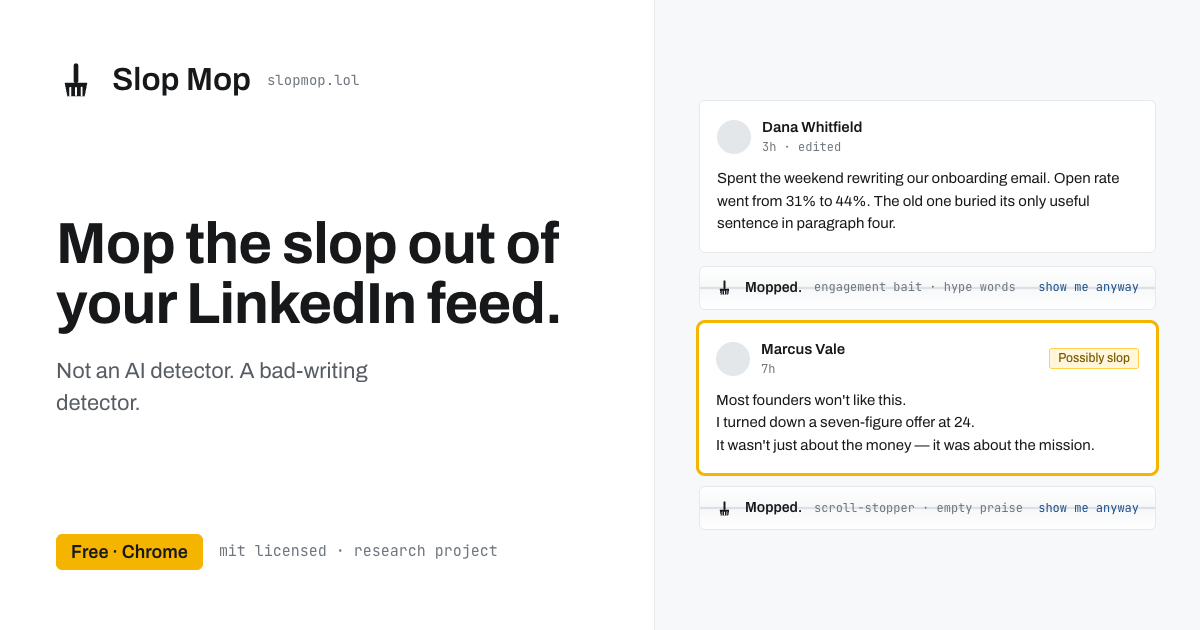
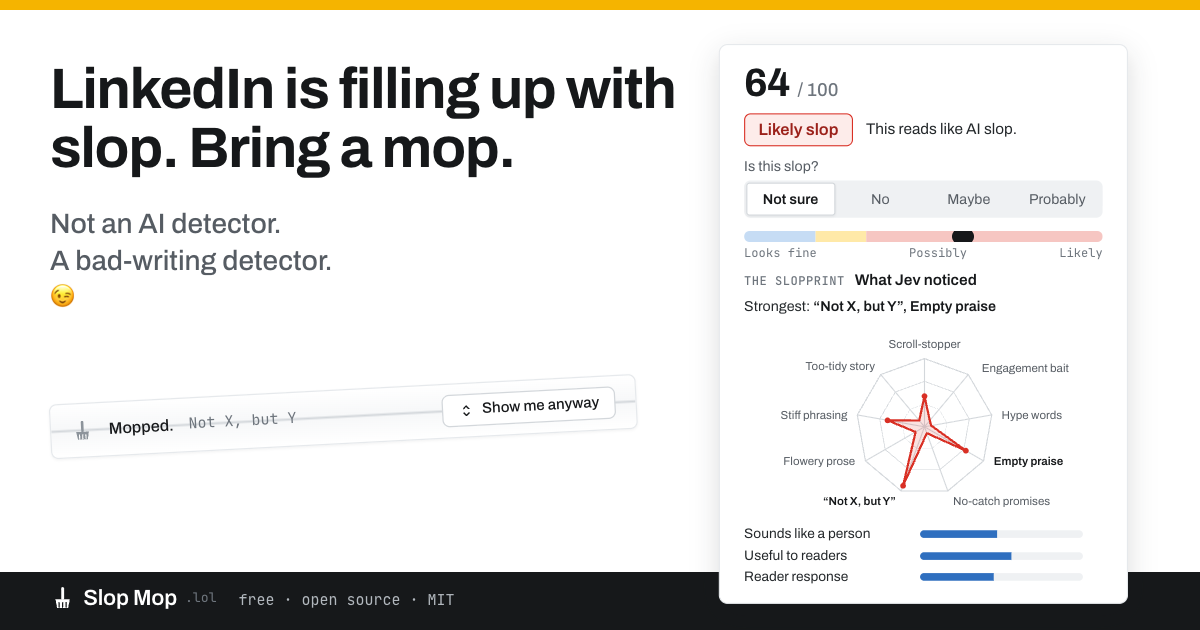
updated og image

diff --git a/index.html b/index.html
@@ -12,15 +12,18 @@
 <meta name="description" content="Slop Mop is a free, open-source Chrome extension that helps reduce AI slop and low-value writing in LinkedIn feeds. It reads posts ahead, explains what it noticed, and lets you hide, highlight, reveal or override. Not an AI detector.">
 <link rel="canonical" href="https://slopmop.lol/">
 <meta name="robots" content="index, follow, max-image-preview:large">
+
+
 <meta property="og:type" content="website">
-<meta property="og:site_name" content="Slop Mop">
 <meta property="og:url" content="https://slopmop.lol/">
-<meta property="og:title" content="Slop Mop — Less slop. More control. Your call.">
-<meta property="og:description" content="A free, MIT-licensed Chrome extension that judges LinkedIn writing — not who wrote it — and lets you hide it, highlight it, or overrule it.">
-<meta property="og:image" content="https://slopmop.lol/og-image-2.png">
+<meta property="og:site_name" content="Slop Mop">
+<meta property="og:title" content="LinkedIn is filling up with slop. Bring a mop.">
+<meta property="og:description" content="Not an AI detector. A bad-writing detector. A free, open-source extension that reads posts before you reach them and hides the ones that waste your attention.">
+<meta property="og:image" content="https://slopmop.lol/og-image.png">
+<meta property="og:image:type" content="image/png">
 <meta property="og:image:width" content="1200">
 <meta property="og:image:height" content="630">
-<meta property="og:image:alt" content="Slop Mop: fold the slop out of your LinkedIn feed.">
+<meta property="og:image:alt" content="Slop Mop — LinkedIn is filling up with slop. Bring a mop.">
 <meta name="twitter:card" content="summary_large_image">
 <meta name="twitter:title" content="Slop Mop — Less slop. More control. Your call.">
 <meta name="twitter:description" content="A free, MIT-licensed Chrome extension that judges LinkedIn writing — not who wrote it — and lets you hide it, highlight it, or overrule it.">
